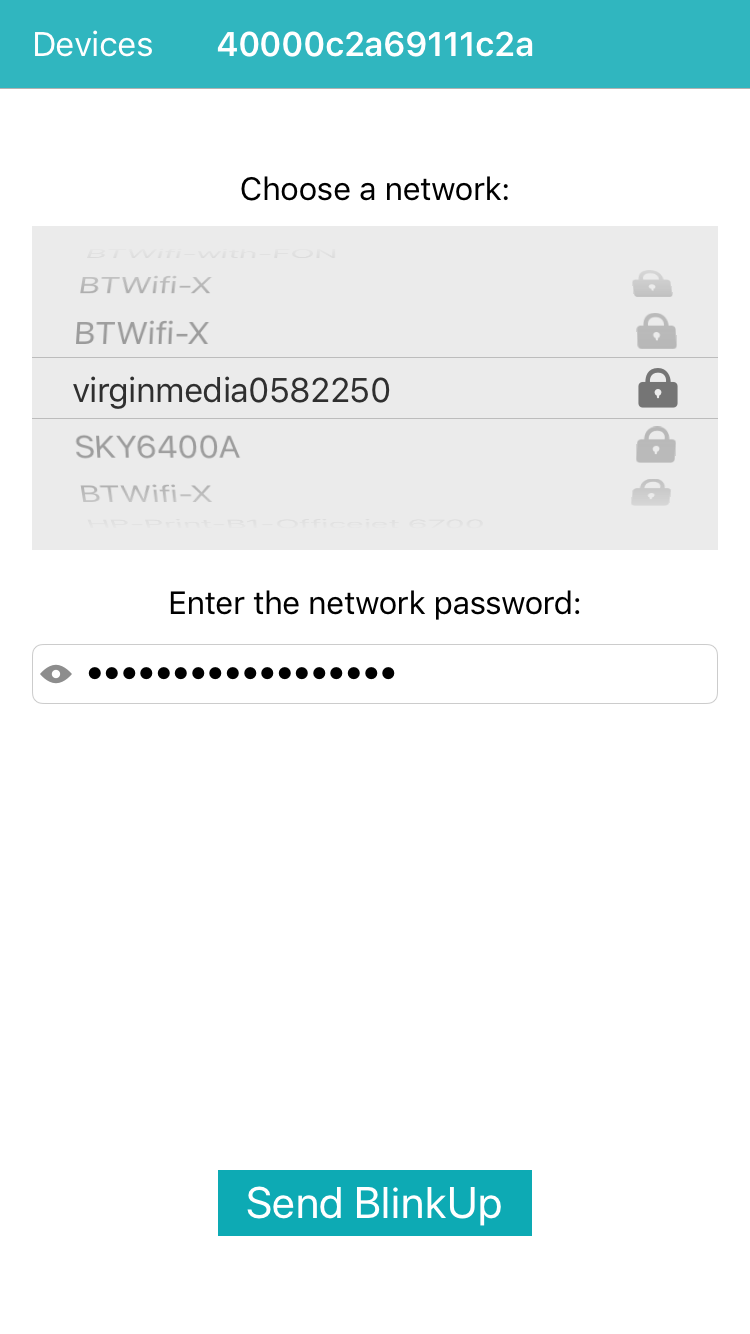
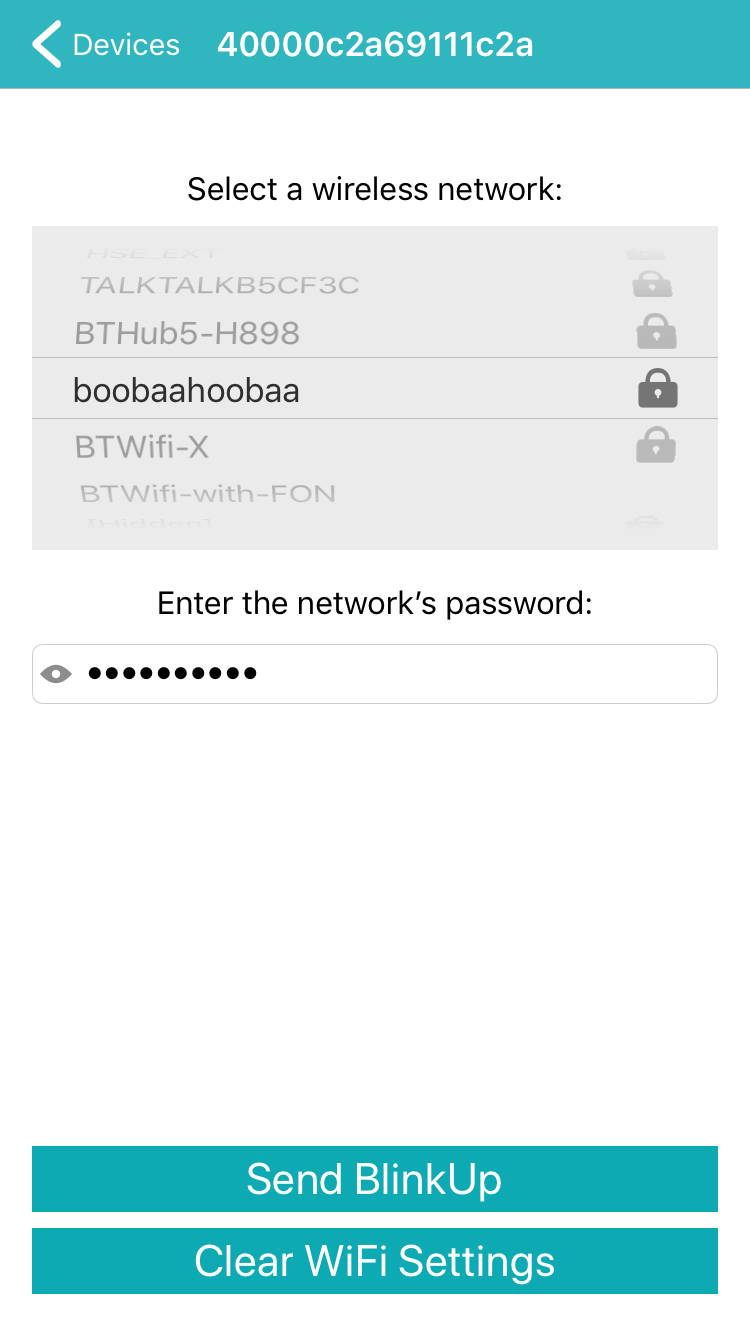
Update images, read me

diff --git a/README.md b/README.md
@@ -1,34 +1,44 @@
 # Bluetooth BlinkUp #
 
-This example comprises Squirrel code to run on a imp004m-based test device – this requires impOS™ 37 or above — and an Xcode project which you can use to build an iOS app (written in Swift) that is capable of finding and configuring test devices running the Squirrel code.
+This example comprises Squirrel code to run on an imp-based test device – this requires impOS™ 37 or above — and an Xcode project which you can use to build an iOS app (written in Swift) that is capable of finding and configuring test devices running the Squirrel code.
 
-The Squirrel code provides a basic framework for supporting BlinkUp™ via Bluetooth. The iOS app is used to scan for nearby imp004m-based devices running the Squirrel code, to select one of them, and then to choose a local wireless network, enter its password and transmit that information to the test device to perform BlinkUp™.
+The Squirrel code provides a basic framework for supporting BlinkUp™ via Bluetooth. The iOS app is used to scan for nearby Bluetooth-enabled imp-based devices, to select one of them, and then to choose a local wireless network, enter its password and transmit that information to the test device to perform BlinkUp™.
+
+The app can perform a full device activation (this requires a BlinkUp API key, see below), or simply update an activated device’s WiFi details. It can also be used to clear a device’s WiFi settings.
 
 **Note** The iOS code can be run in Device Simulator, but this will not be able to access Bluetooth. To use Bluetooth, you must run the app on a connected iDevice.
 
 ## BlinkUp Preparation ##
 
-The iOS makes use of the Electric Imp BlinkUp SDK. As such, it requires the entry of a BlinkUp API key to authorize its access to the Electric Imp impCloud™. The app prompts the user for this key when it is first run; if you do not enter your key then, you can do so at a later time, by tapping ‘Actions’ in the navigation bar and selecting ‘Enter your BlinkUp API key’ from the menu.
+The iOS app can make use of the Electric Imp BlinkUp SDK to activate a fresh development device. As such, it requires the entry of a BlinkUp API key to authorize its access to the Electric Imp impCloud™. The app does not prompt the user for this key because the app can be used without with devices that have already been activated. To enter your key, tap ‘Actions’ in the navigation bar and select ‘Enter your BlinkUp API key’ from the menu.
 
 Please note that Electric Imp makes BlinkUp API keys available **to customers only**. This sample code cannot be used by holders of free Electric Imp accounts.
 
+Your BlinkUp API key will be stored in the iOS keychain. If you wish to clear a stored password, open the ‘Enter your BlinkUp API key’ panel, ensure no key is entered, and tap ‘Submit’.
+
+Setting only the device’s WiFi credentials does not make use of the BlinkUp SDK, so this is the default action if you do not provide an API key. Clearing the WiFi settings does not make use of the BlinkUp SDK.
+
 ## Hardware Preparation ##
 
-Because the iOS app makes use of the Electric Imp BlinkUp SDK, it performs production BlinkUp. As such, the test device must already have been assigned to your Electric Imp account as a development device and assigned to a Device Group. This Device Group can be the one you have deployed the sample Squirrel code to.
+When the iOS app makes use of the Electric Imp BlinkUp SDK, it performs production BlinkUp. As such, the test device must already have been assigned to your Electric Imp account as a development device and assigned to a Device Group. This Device Group can be the one you have deployed the sample Squirrel code to.
+
+Simply setting and clearing the WiFi settings can be performed on any device running the provided Squirrel code.
 
 ## Using the App ##
 
-When the app has launched and you have entered your BlinkUp API Key — or it has been read from your phone’s keychain — pull down the list view to start a scan (or tap ‘Actions’ and select ‘Start Scan’. Any devices running the demo’s Squirrel code will now appear in the list — tap one to view the list of compatible WiFi networks the device can see. Select your network from the list and enter its password. You can click on the eye icon to view the password characters.
+When the app has launched, you may be required to authorize the app to use Bluetooth — please do so. Now pull down the list view to start a scan (or tap ‘Actions’ and select ‘Start Scan’) to search for compatible devices. Any devices running the demo’s Squirrel code will now appear in the list — tap one to view the list of compatible WiFi networks the device can see. Select your network from the list and enter its password, if it has one. You can tap the eye icon in the password field to view the password characters.
 
 <p align="center"><img src="images/01.png" width="375" style="border: 1px solid #DDDDDD" >&nbsp;&nbsp;<img src="images/02.png" width="375" style="border: 1px solid #DDDDDD"></p>
 
 Finally, tap ‘Send BlinkUp’ to transmit the WiFi credentials to the device. It will then reconnect to the new network. The device logs details of the process, so you can observe it connect if you are viewing the log stream in impCentral™ or an impCentral API-based tool.
 
+Optionally, tap ‘Clear WiFi Settings’ to erase your device’s WiFi credentials. It is not necessary to clear WiFi settings before setting them, but this feature is included here to demonstrate the range of device configuration features you can implement using Bluetooth.
+
 ## iOS Bluetooth Attribute Caching ##
 
-By default, iOS caches the attribute information it discovers from devices. This ensures that future scans need not use the radio, conserving power. However, it also means if you change your Squirrel app’s served attributes during development, they will not be detected by the app.
+By default, iOS caches the attribute information it discovers from devices, as does Android. This ensures that future scans need not use the radio, conserving power. However, it also means if you change your Squirrel app’s served attributes during development, they will not be detected by the app.
 
-The easiest approach to dealing with this is to disable then re-enable Bluetooth on your Apple device. You may also need to power-cycle the device.
+The easiest approach to dealing with this is to disable then re-enable Bluetooth on your Apple device — try switching to Airplane mode and then back again. You may also need to power-cycle the device.
 
 ## License ##
 
